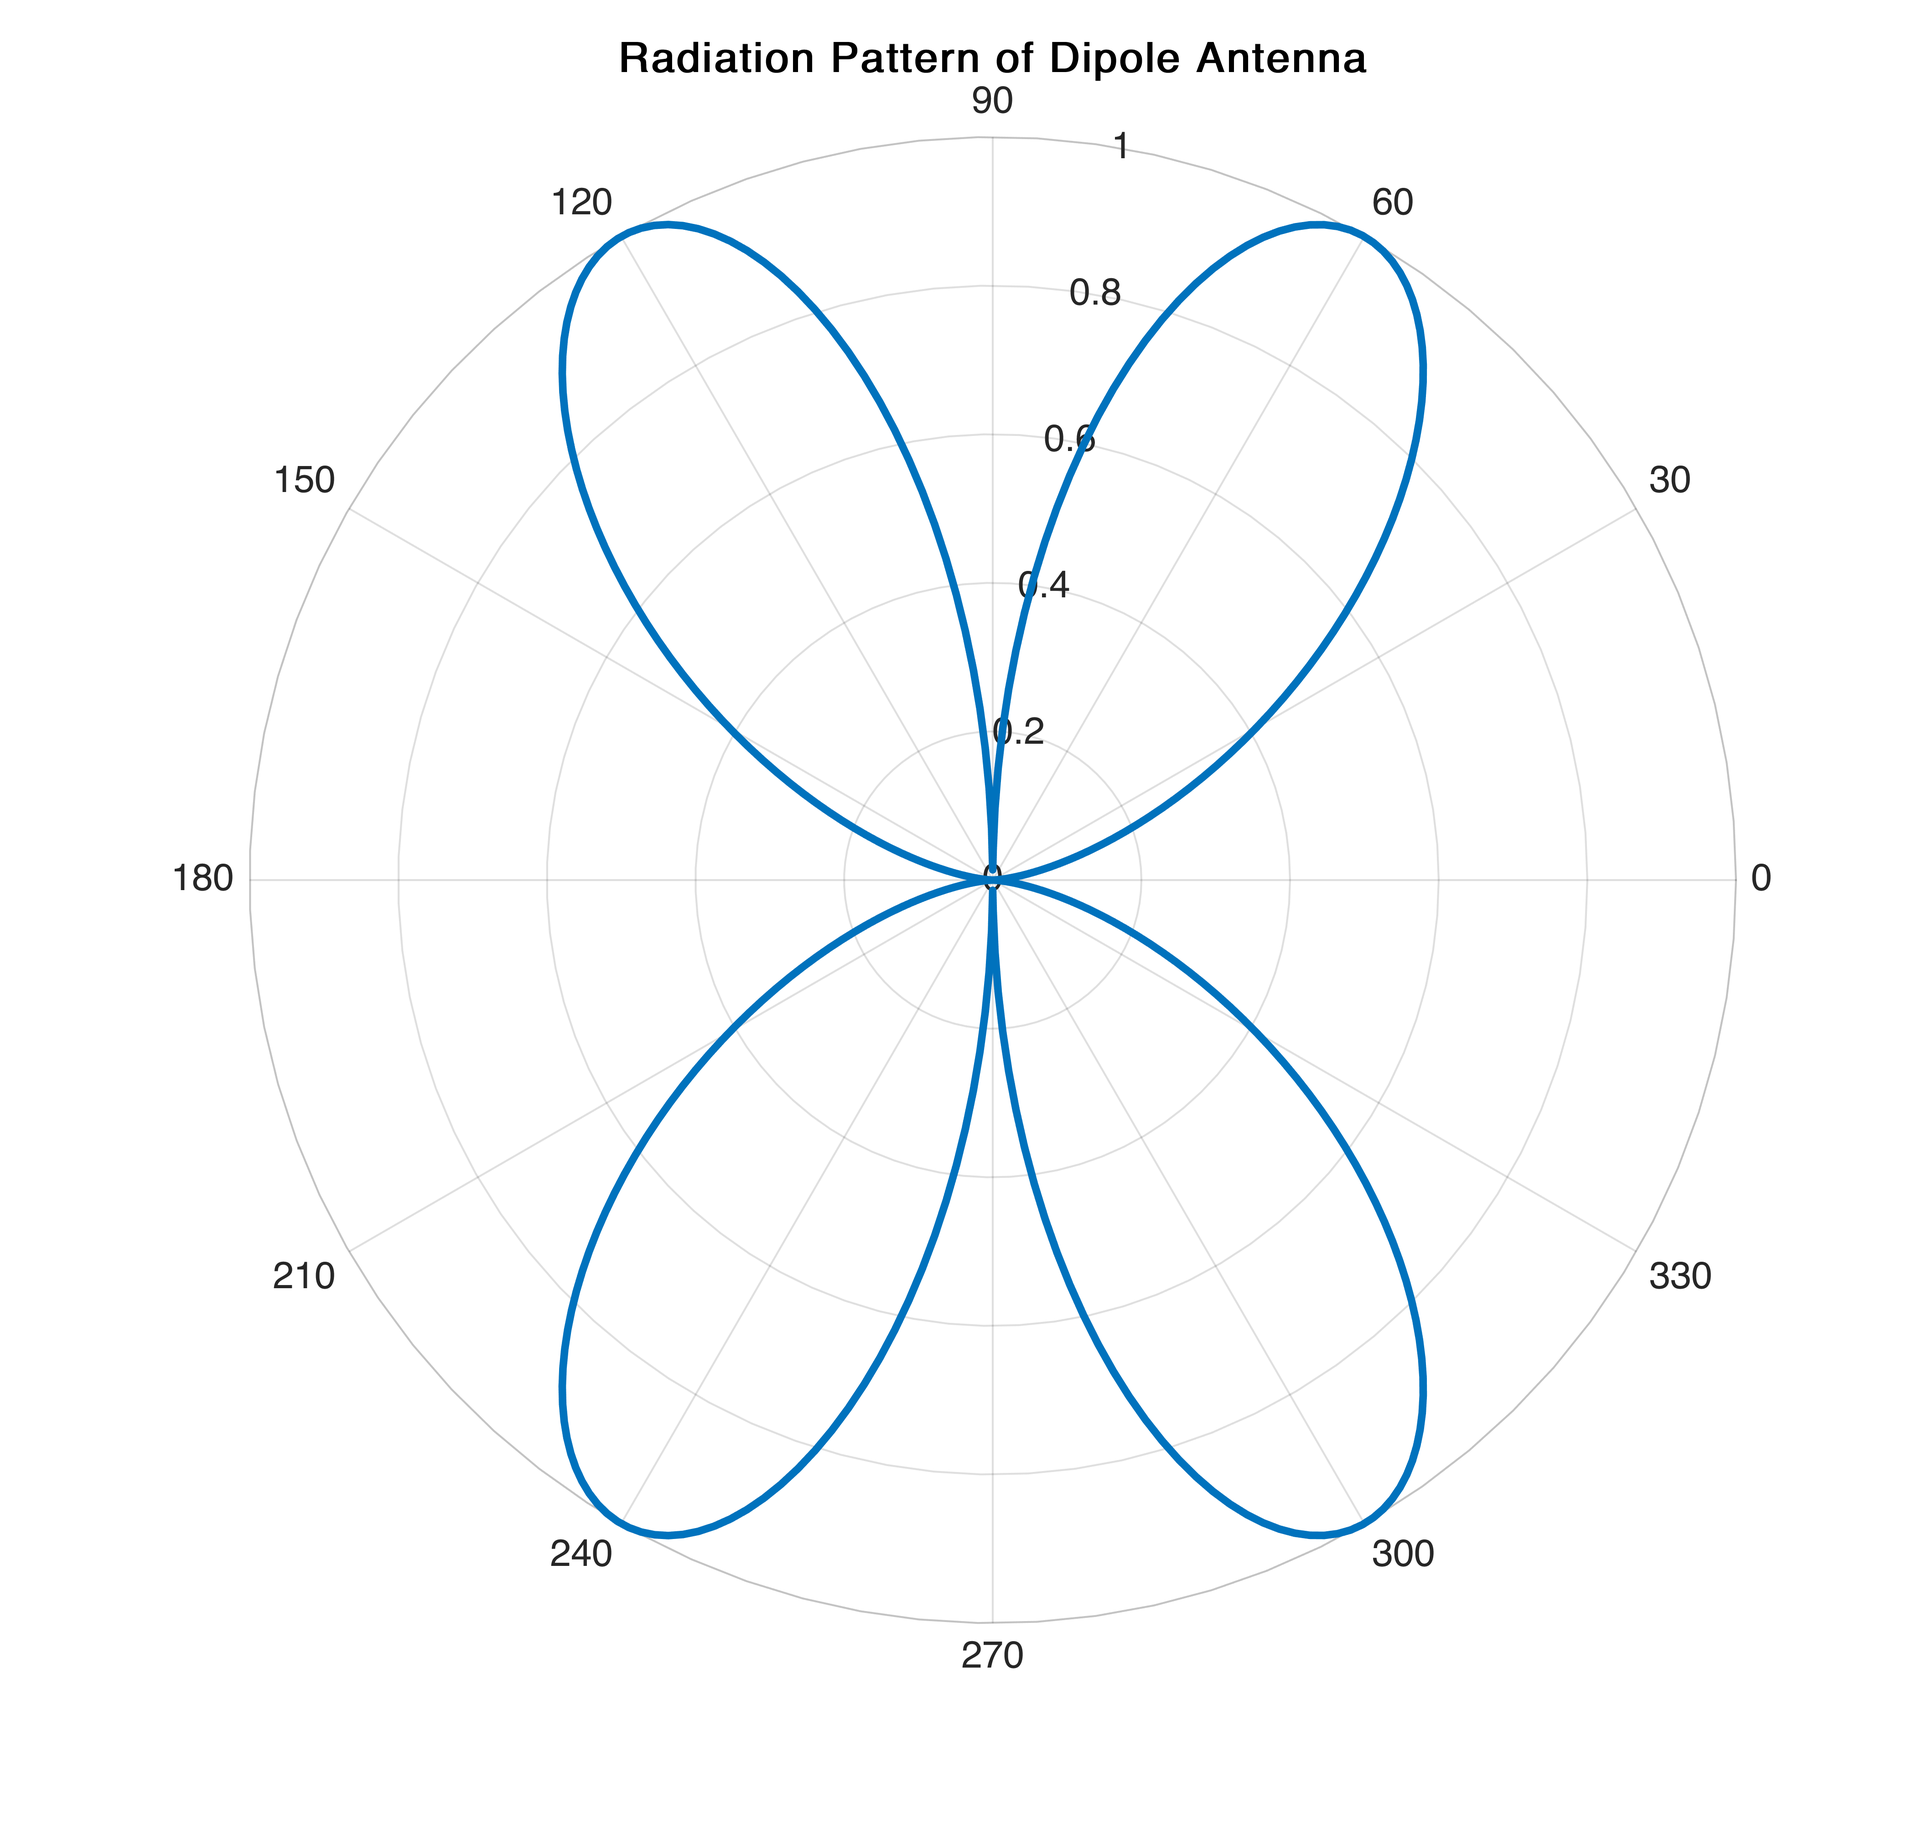
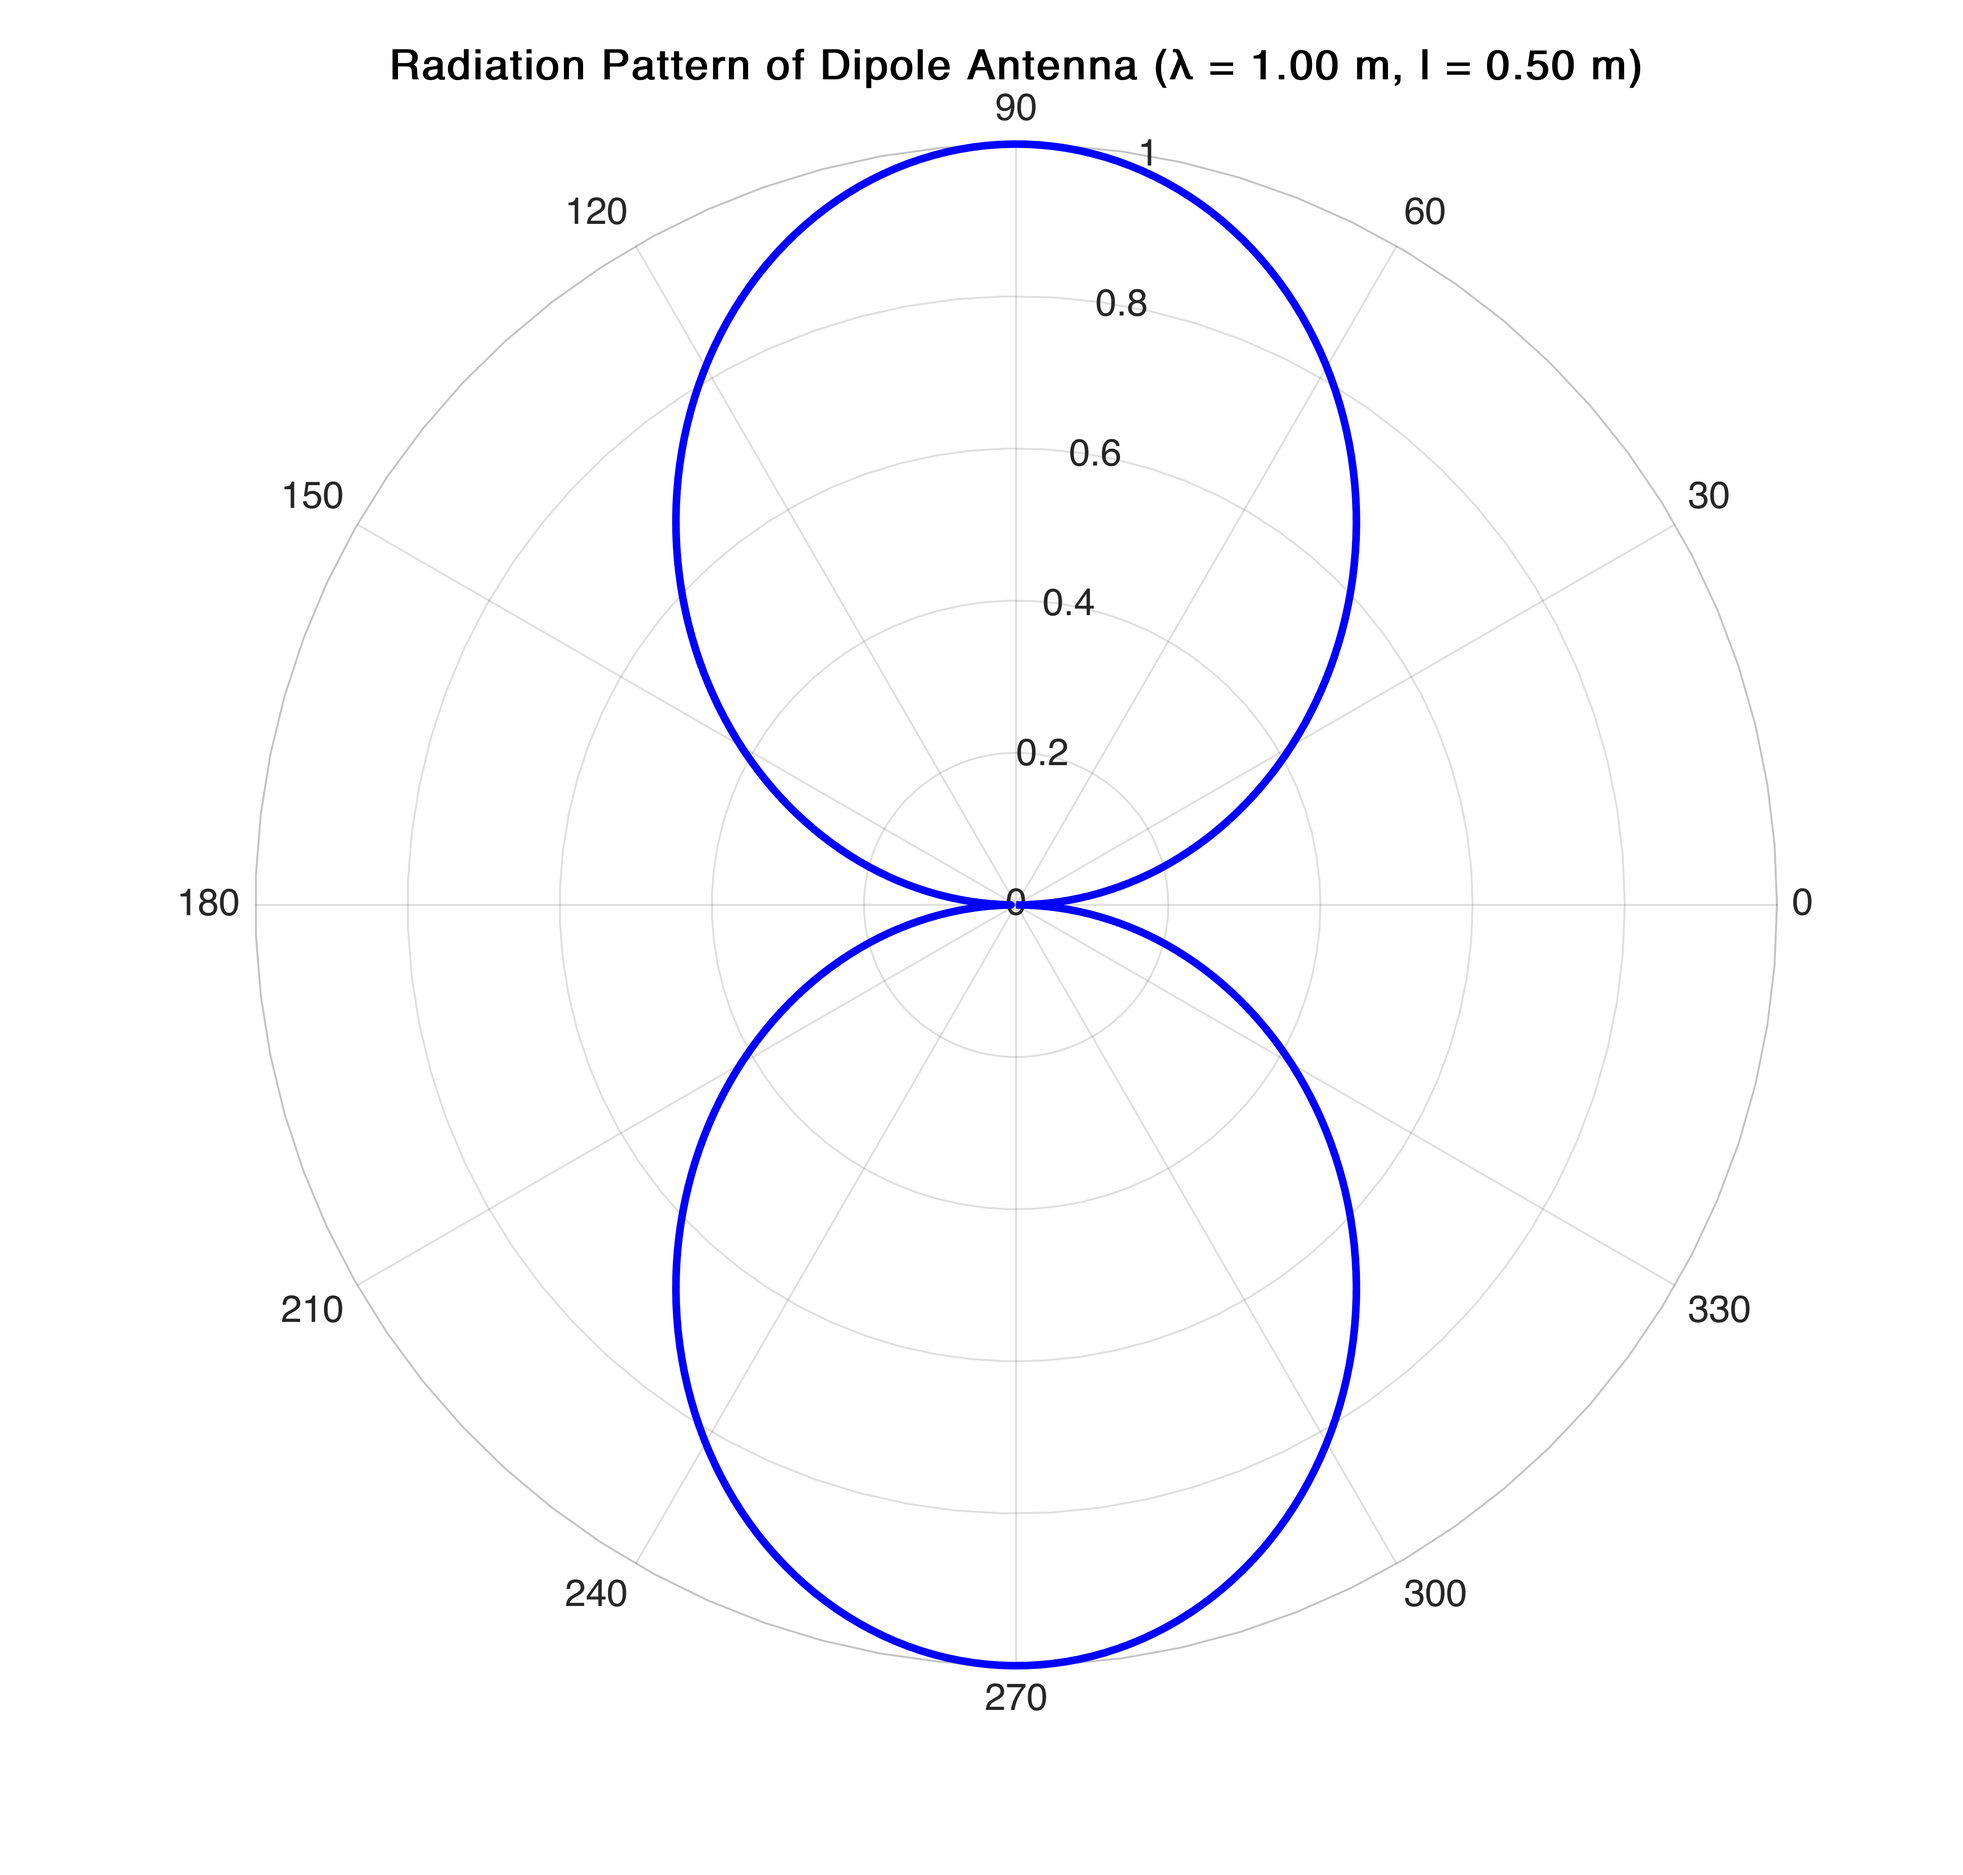
changed the dipole code for better implementation

diff --git a/Exp5_dipole_antenna.m b/Exp5_dipole_antenna.m
@@ -1,21 +1,30 @@
-clc;
-clear;
-close all;
+clc; clear; close all;
 
-% Frequency and wave parameters
-f = 3e9; % Frequency (3 GHz)
-c = 3e8; % Speed of light in m/s
-lambda = c / f; % Wavelength
+% Input parameters
+lambda = input('Enter the value of wavelength (?) in meters: '); % Wavelength
+l = input('Enter the dipole length (l) in meters: '); % Dipole length
 
-% Define the angle range for plotting (0 to 360 degrees)
-theta = linspace(0, 2*pi, 360); 
+% Ratio of dipole length to wavelength
+ratio = l / lambda;
 
-% Radiation pattern for dipole antenna (sinusoidal function of angle)
-E = sin(pi * cos(theta)); 
+% Wave number and angle range
+B = 2 * pi / lambda; % Wave number
+theta = linspace(0, 2 * pi, 360); % Angle range in radians
+
+% Calculate radiation pattern
+if ratio <= 0.1
+    % Short Dipole
+    E = sin(theta); % Electric field for short dipole
+else
+    % Regular Dipole
+    E = (cos(B * l / 2 .* cos(theta)) - cos(B * l / 2)) ./ sin(theta); % Electric field for regular dipole
+end
+
+% Normalize and take absolute value for proper visualization
+E = abs(E) / max(abs(E));
 
 % Plot radiation pattern
 figure;
-polarplot(theta, abs(E), 'LineWidth', 2);
-title('Radiation Pattern of Dipole Antenna');
-rlim([0 1]); % Limit the radial distance for better visualization
-thetalim([0 360]); % Display the full circle for complete pattern
+polarplot(theta, E, 'LineWidth', 2, 'Color', 'blue');
+title(sprintf('Radiation Pattern of Dipole Antenna (? = %.2f m, l = %.2f m)', lambda, l));
+grid on;

diff --git a/Alternative Codes/dipole.m b/Alternative Codes/dipole.m
@@ -4,7 +4,7 @@ clear;
 close all;
 
 % Define parameters
-lambda = 1; % Wavelength (normalized)
+lambda = 1.5; % Wavelength (normalized)
 L = lambda / 2; % Length of dipole (half-wave)
 k = 2 * pi / lambda; % Wave number
 theta = linspace(0, 2 * pi, 360); % Angular range (0 to 360 degrees)
